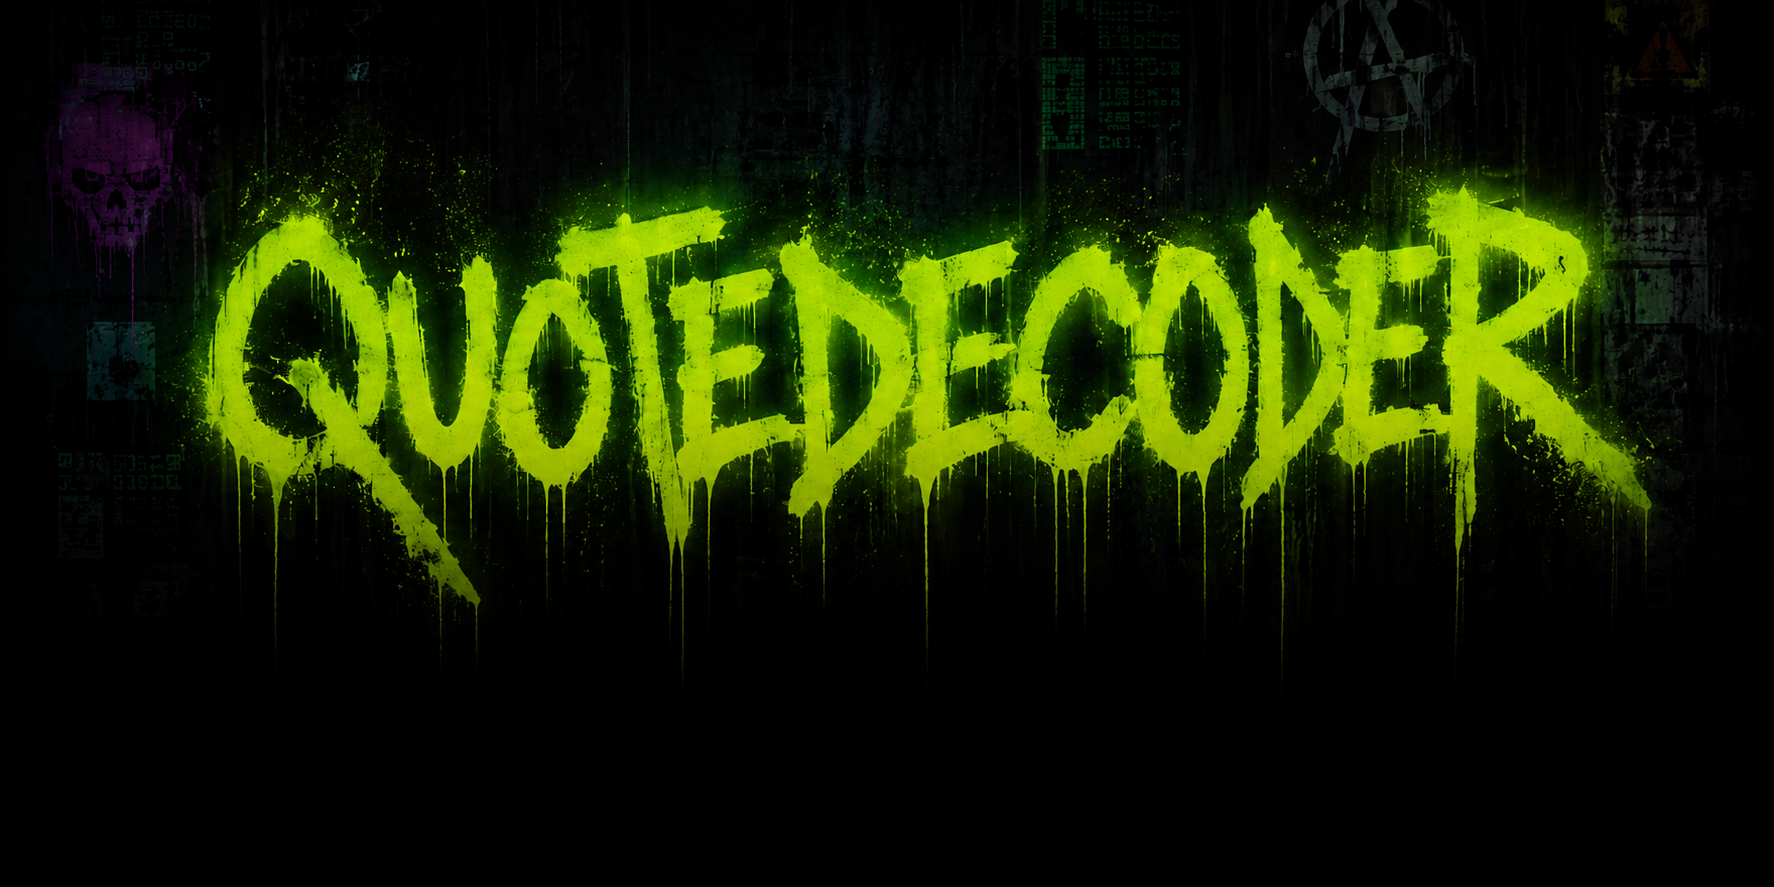
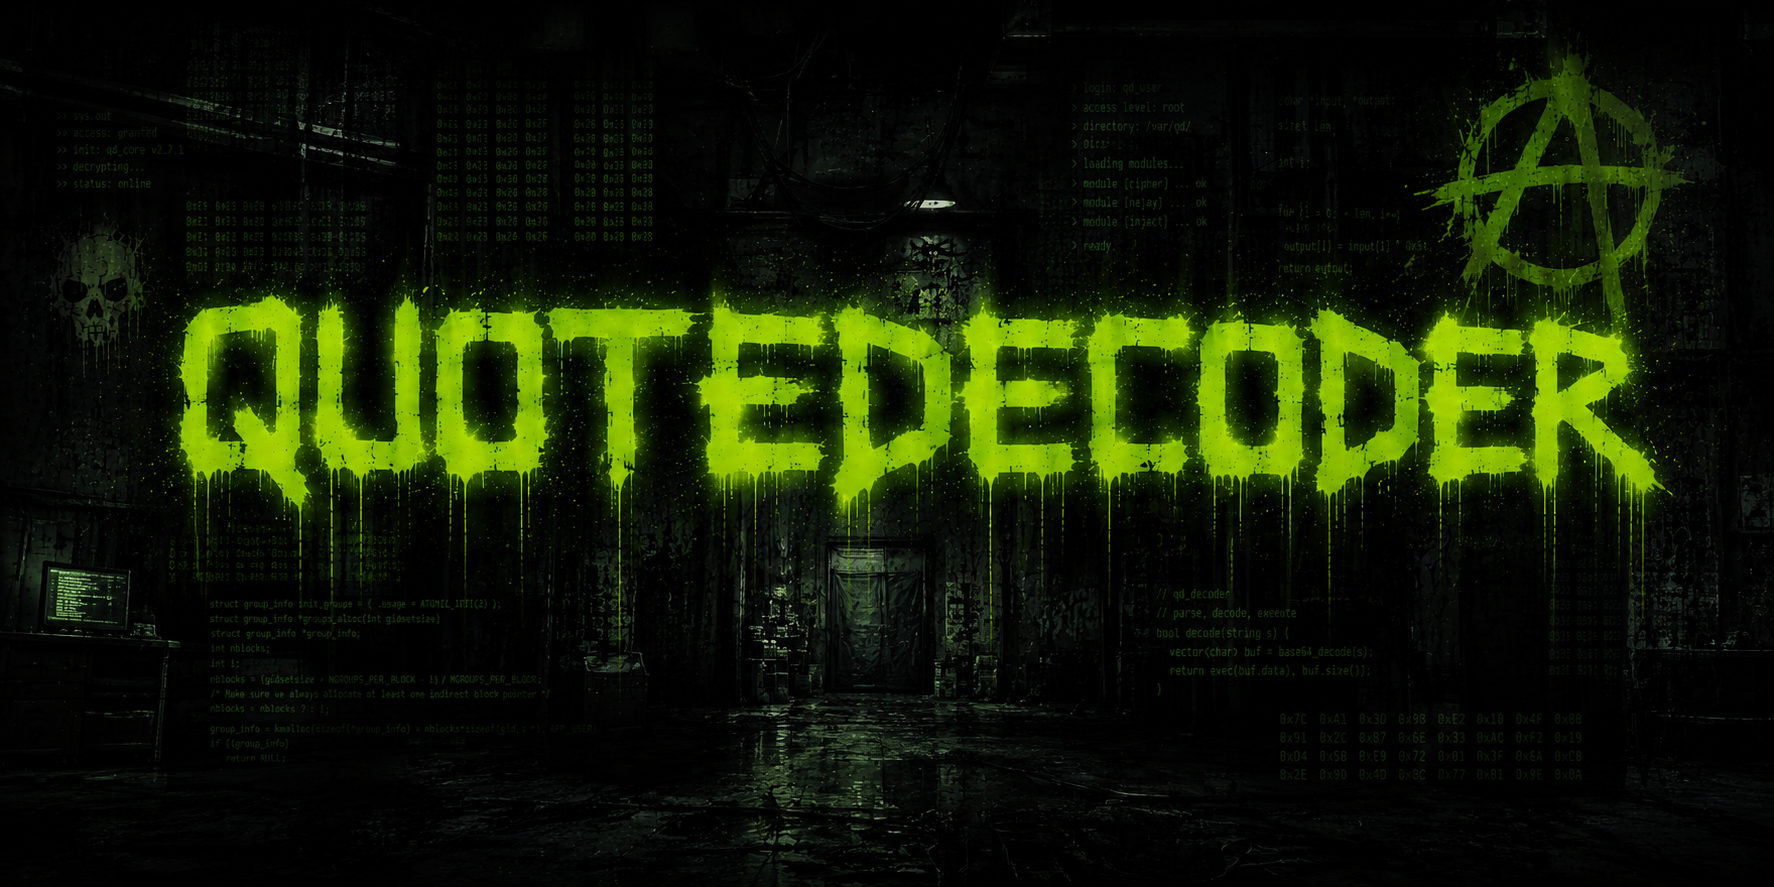
Update images

diff --git a/styles.css b/styles.css
@@ -26,7 +26,7 @@ body {
   display: flex;
   align-items: center;
   justify-content: center;
-  background: #000 url("assets/app-background.jpg") center top / 402px auto repeat-y;
+  background: #000 url("assets/app-background.png") center top / 402px auto repeat-y;
   color: var(--fg);
   font-family: "Courier New", "Lucida Console", Monaco, monospace;
   line-height: 1.5;
